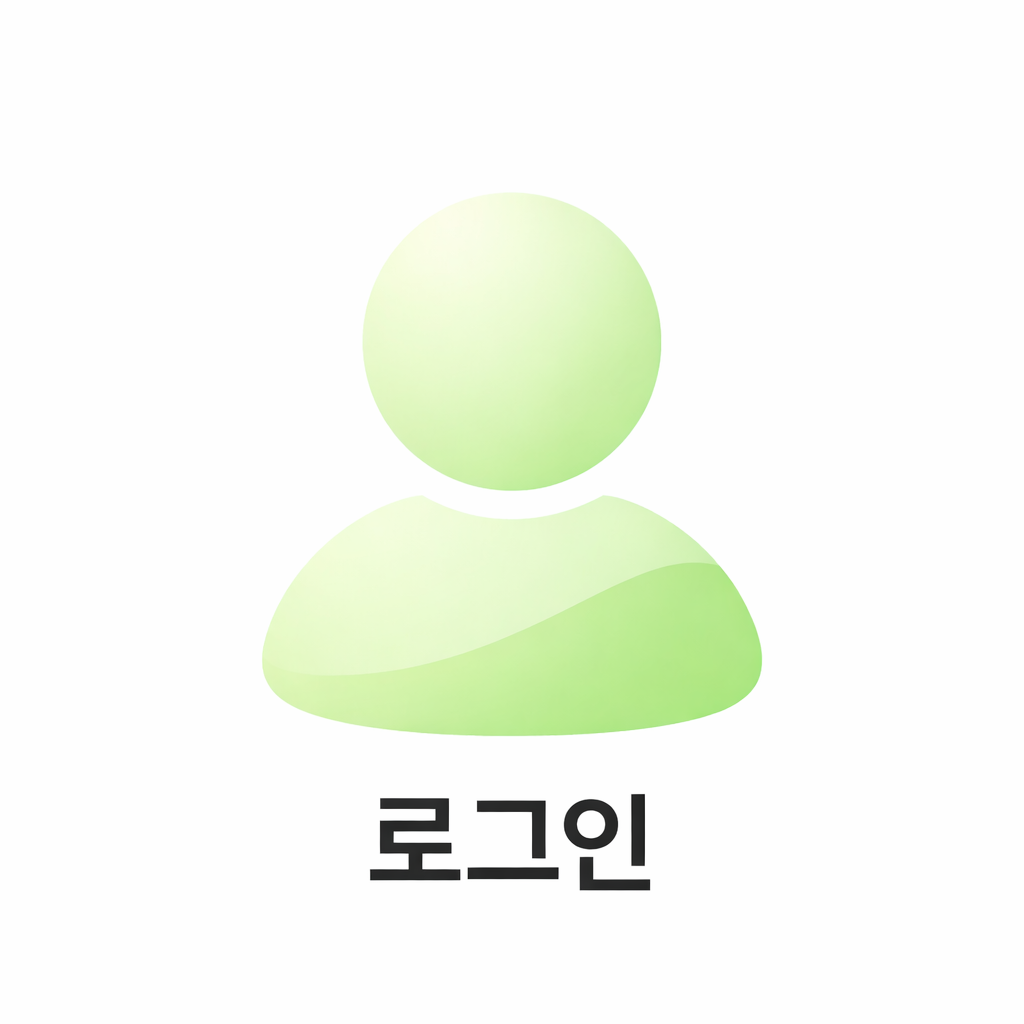
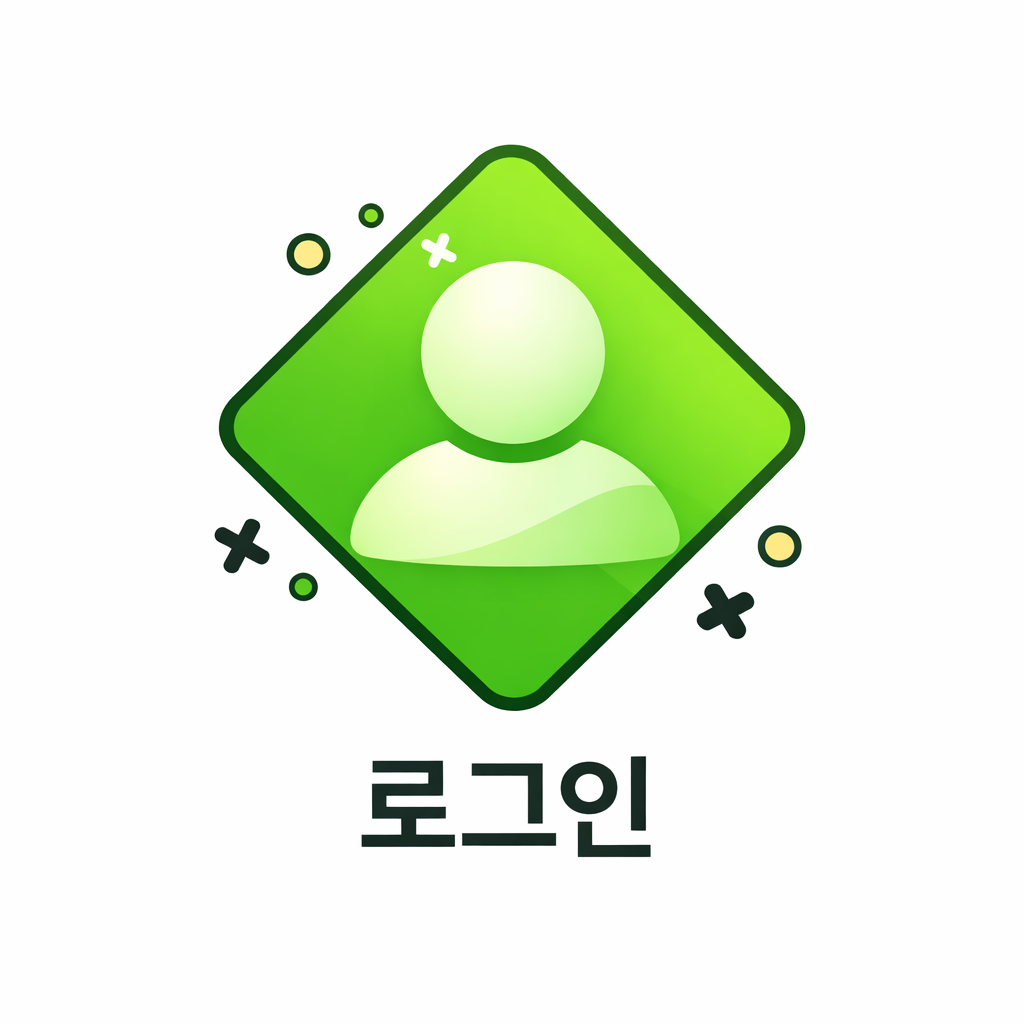
2026.03.16 > 여행/관리자 > 프론트 > 로그인 > 회원가입 프론트

Changed region(s): [[0.1875, 0.125, 0.8125, 0.875], [0.3438, 0.1875, 0.375, 0.2188]]

diff --git a/src/components/auth/SignUpDialog.jsx b/src/components/auth/SignUpDialog.jsx
@@ -1,0 +1,156 @@
+import {
+    Dialog,
+    DialogTitle,
+    DialogContent,
+    DialogActions,
+    TextField,
+    Button,
+    Stack,
+    IconButton,
+    Typography,
+    Checkbox,
+    FormControlLabel,
+    Box
+} from "@mui/material";
+import CloseIcon from "@mui/icons-material/Close";
+import { useState } from "react";
+
+export default function SignUpDialog({ open, onClose }) {
+
+    const [form, setForm] = useState({
+        name: "",
+        loginId: "",
+        password: "",
+        passwordConfirm: "",
+        email: "",
+        phone: "",
+        agree: false
+    });
+
+    const handleChange = (e) => {
+        const { name, value, checked, type } = e.target;
+
+        setForm({
+            ...form,
+            [name]: type === "checkbox" ? checked : value
+        });
+    };
+
+    const handleSubmit = () => {
+        console.log("회원가입 데이터", form);
+        // 나중에 API 연결
+    };
+
+    return (
+        <Dialog open={open} onClose={onClose} fullWidth maxWidth="xs">
+
+            {/* 타이틀 */}
+            <DialogTitle sx={{ display: "flex", alignItems: "center" }}>
+                <Typography fontWeight={800} sx={{ flex: 1 }}>
+                    회원가입
+                </Typography>
+
+                <IconButton onClick={onClose}>
+                    <CloseIcon />
+                </IconButton>
+            </DialogTitle>
+
+            {/* 폼 영역 */}
+            <DialogContent>
+
+                <Box className="notranslate">
+
+                    <Stack spacing={2} sx={{ mt: 1 }}>
+
+                        <TextField
+                            label="이름"
+                            name="name"
+                            value={form.name}
+                            onChange={handleChange}
+                            fullWidth
+                        />
+
+                        <TextField
+                            label="아이디"
+                            name="loginId"
+                            value={form.loginId}
+                            onChange={handleChange}
+                            fullWidth
+                        />
+
+                        <TextField
+                            label="비밀번호"
+                            name="password"
+                            type="password"
+                            value={form.password}
+                            onChange={handleChange}
+                            fullWidth
+                        />
+
+                        <TextField
+                            label="비밀번호 확인"
+                            name="passwordConfirm"
+                            type="password"
+                            value={form.passwordConfirm}
+                            onChange={handleChange}
+                            fullWidth
+                        />
+
+                        <TextField
+                            label="이메일"
+                            name="email"
+                            value={form.email}
+                            onChange={handleChange}
+                            fullWidth
+                        />
+
+                        <TextField
+                            label="휴대폰 번호"
+                            name="phone"
+                            value={form.phone}
+                            onChange={handleChange}
+                            fullWidth
+                        />
+
+                        <FormControlLabel
+                            control={
+                                <Checkbox
+                                    name="agree"
+                                    checked={form.agree}
+                                    onChange={handleChange}
+                                />
+                            }
+                            label="이용약관 및 개인정보 처리방침에 동의합니다."
+                        />
+
+                    </Stack>
+
+                </Box>
+
+            </DialogContent>
+
+            {/* 하단 버튼 */}
+            <DialogActions sx={{ p: 2 }}>
+
+                <Button
+                    variant="contained"
+                    fullWidth
+                    size="large"
+                    onClick={handleSubmit}
+                    sx={{
+                        backgroundColor: "#7CB342",
+                        fontWeight: 600,
+                        py: 1.5,
+                        "&:hover": {
+                            backgroundColor: "#689F38"
+                        }
+                    }}
+                >
+                    회원가입
+                </Button>
+
+            </DialogActions>
+
+        </Dialog>
+    );
+}

diff --git a/src/components/Header.jsx b/src/components/Header.jsx
@@ -18,6 +18,8 @@ import Tooltip from "@mui/material/Tooltip";
 import LogoutIcon from "@mui/icons-material/Logout";
 import LoginDialog from "./auth/LoginDialog"; //components/auth
 import loginImg from "../assets/login.png";
+import signupImg from "../assets/signup.png";
+import SignUpDialog from "./auth/SignUpDialog";
 
 
 export default function Header() {
@@ -25,6 +27,7 @@ export default function Header() {
     const navigate = useNavigate();
     const [keyword, setKeyword] = useState(""); // 키워드 초기값
     const [loginOpen, setLoginOpen] = useState(false);
+    const [signupOpen, setSignupOpen] = useState(false);
 
     return (
         <AppBar
@@ -96,6 +99,7 @@ export default function Header() {
                     {/* 사용자 영역 */}
                     <Box sx={{ display: "flex", alignItems: "center" }}>
                         {!user ? (
+                        <>
                             <Tooltip title="로그인">
                                 <IconButton onClick={() => setLoginOpen(true)} sx={{ p: 0.5 }}>
                                     <Box
@@ -106,6 +110,18 @@ export default function Header() {
                                     />
                                 </IconButton>
                             </Tooltip>
+                            {/* 회원가입 */}
+                            <Tooltip title="회원가입">
+                                <IconButton onClick={() => setSignupOpen(true)} sx={{ p: 0.5 }}>
+                                    <Box
+                                        component="img"
+                                        src={signupImg}
+                                        alt="signup"
+                                        sx={{ width: 80, height: 80, borderRadius: 20 }}
+                                    />
+                                </IconButton>
+                            </Tooltip>
+                        </>
                         ) : (
                             <Tooltip title="로그아웃">
                                 <IconButton
@@ -121,6 +137,8 @@ export default function Header() {
 
                         {/* 로그인 모달 */}
                         <LoginDialog open={loginOpen} onClose={() => setLoginOpen(false)} />
+                        {/* 회원가입 모달 */}
+                        <SignUpDialog open={signupOpen} onClose={() => setSignupOpen(false)} />
                     </Box>
                 </Box>
             </Toolbar>

diff --git a/src/components/auth/LoginDialog.jsx b/src/components/auth/LoginDialog.jsx
@@ -104,6 +104,55 @@ export default function LoginDialog({ open, onClose }) {
                     >
                         {loading ? "로그인 중..." : "로그인"}
                     </Button>
+
+                    {/* 로그인 버튼 아래 텍스트 링크 영역 */}
+                    <Box
+                        sx={{
+                            display: "flex",
+                            justifyContent: "center",
+                            alignItems: "center",
+                            gap: 1,
+                            mt: -0.5
+                        }}
+                    >
+                        <Button
+                            variant="text"
+                            size="small"
+                            sx={{
+                                minWidth: "auto",
+                                p: 0,
+                                color: "text.secondary",
+                                fontSize: 14,
+                                fontWeight: 500,
+                                textTransform: "none"
+                            }}
+                        >
+                            아이디 찾기
+                        </Button>
+
+                        <Typography
+                            variant="body2"
+                            color="text.secondary"
+                            sx={{ lineHeight: 1 }}
+                        >
+                            |
+                        </Typography>
+
+                        <Button
+                            variant="text"
+                            size="small"
+                            sx={{
+                                minWidth: "auto",
+                                p: 0,
+                                color: "text.secondary",
+                                fontSize: 14,
+                                fontWeight: 500,
+                                textTransform: "none"
+                            }}
+                        >
+                            비밀번호 찾기
+                        </Button>
+                    </Box>
                 </Stack>
 
                 <Box sx={{ my: 3 }}>
